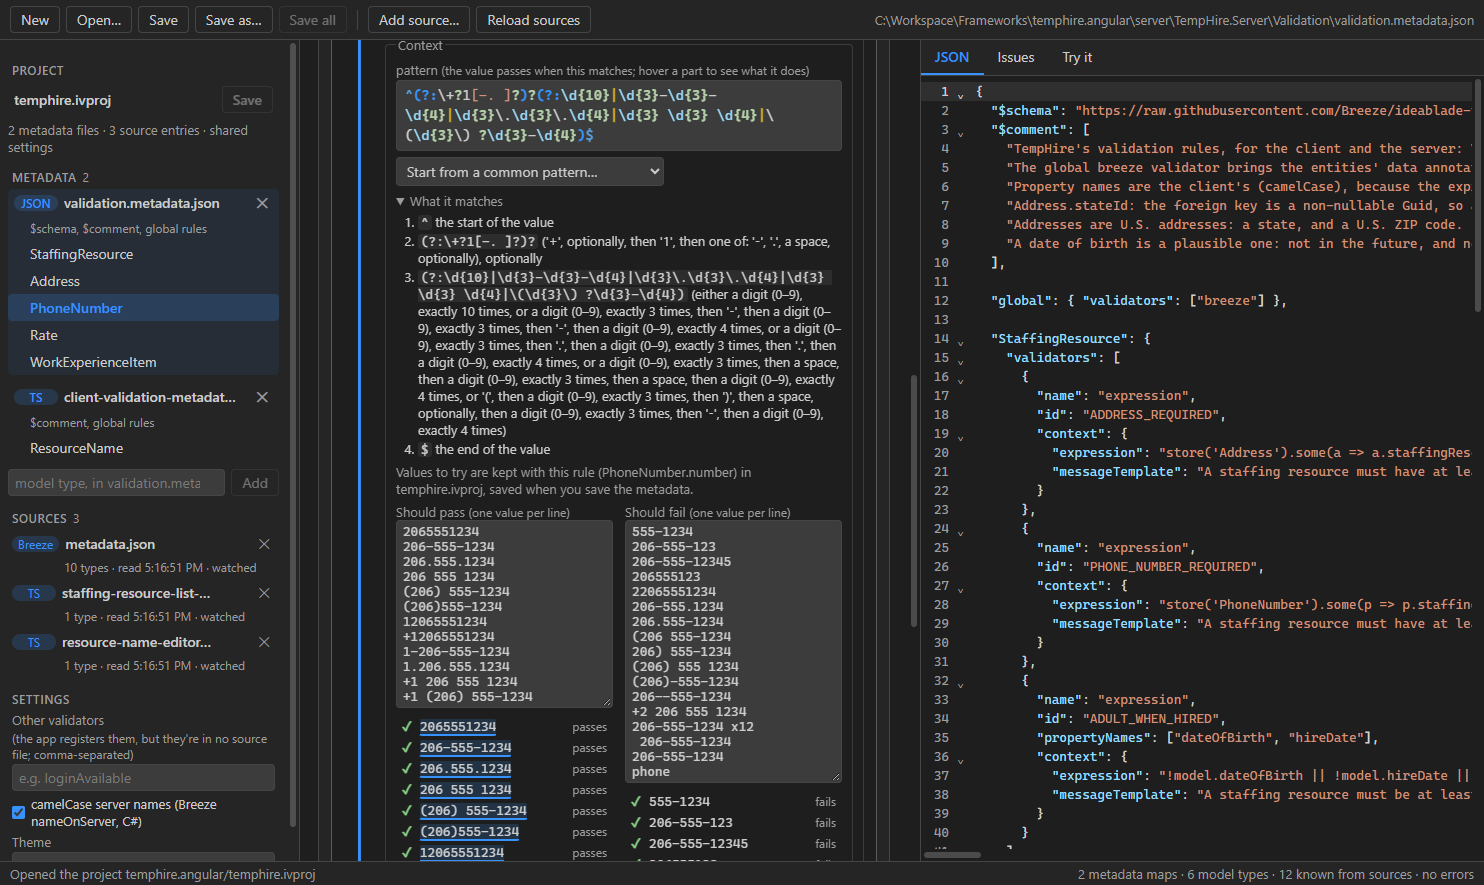
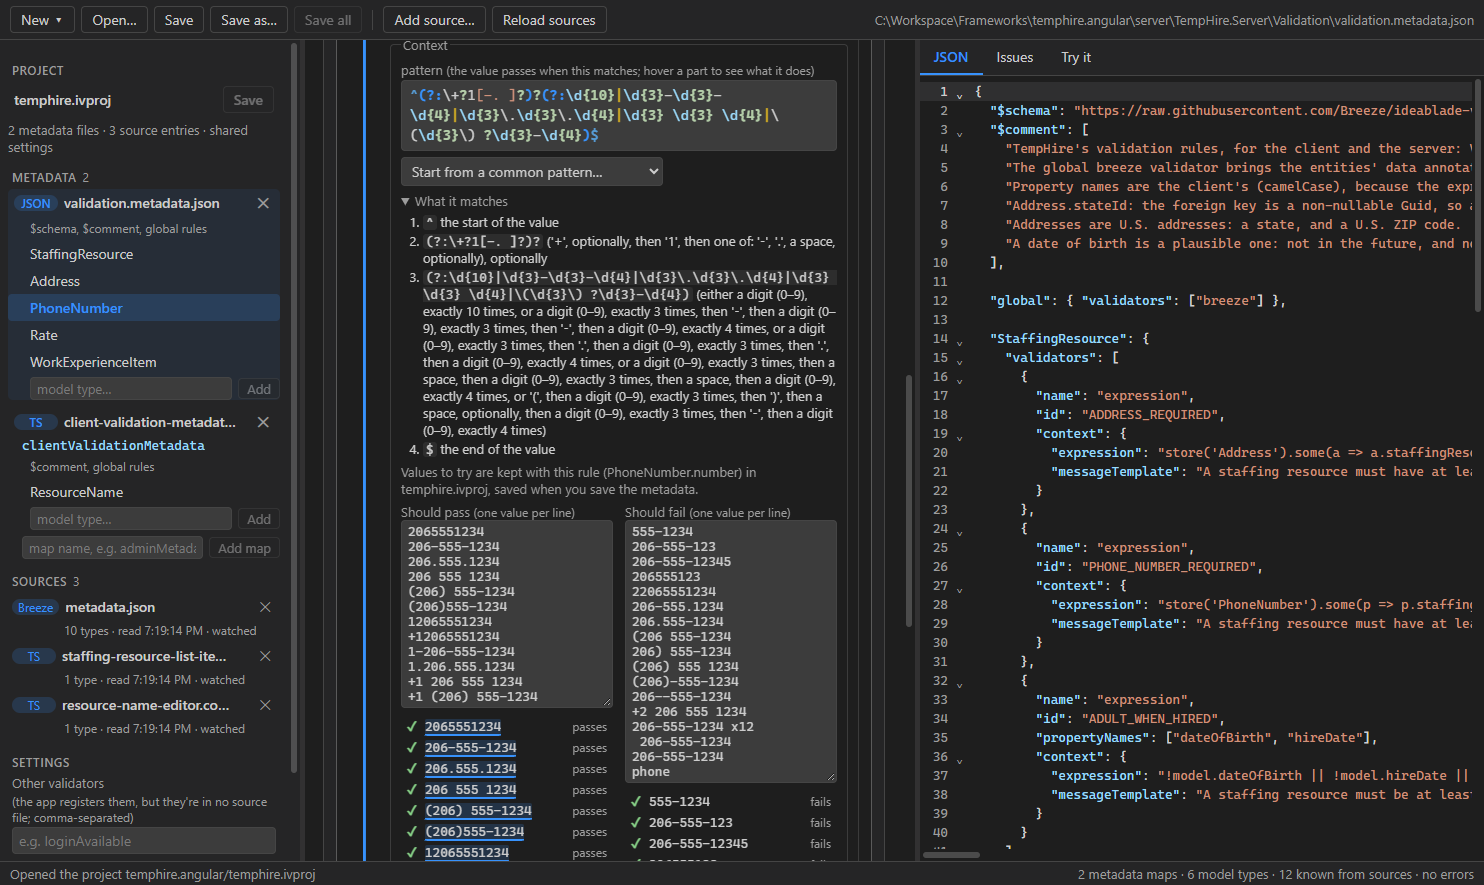
README: a note on how it was made, and current screenshots
A note at the top: written in a few hours with Claude Code, not fully
reviewed and vetted, a developer tool rather than a production app.
All screenshots retaken with the current UI (the sidebar grouped by
file, map names, the TypeScript view), plus a new row: a TS file with a
second map from Add map, the start page with recent projects, and the
New menu.

diff --git a/README.md b/README.md
@@ -2,6 +2,8 @@
 
 A desktop editor for [IdeaBlade Validation](https://github.com/Breeze/ideablade-validation)'s JSON validation metadata (`validation.metadata.json`), so the rules no longer have to be written by hand. It's a first drop: a working prototype, not a finished product.
 
+> **Note:** What you see here was written in a few hours with the help of [Claude Code](https://claude.com/claude-code). The code hasn't been fully reviewed and vetted. It's meant as a developer tool, not a fully fleshed-out production app.
+
 ![Editing a model-level rule](docs/screenshots/model-editor.png)
 
 ## What it does
@@ -80,6 +82,10 @@ A desktop editor for [IdeaBlade Validation](https://github.com/Breeze/ideablade-
 | TempHire's project file, with its pattern's values to try | The JSON view: folding, search, VS Code's colours | A file changed outside the editor |
 |---|---|---|
 | ![](docs/screenshots/project.png) | ![](docs/screenshots/json-editor.png) | ![](docs/screenshots/outside-change.png) |
+
+| A TS file with a second map (Add map), shown as the file | The start page, with the recent projects | New: JSON, TypeScript or C# |
+|---|---|---|
+| ![](docs/screenshots/ts-maps.png) | ![](docs/screenshots/start-page.png) | ![](docs/screenshots/new-menu.png) |
 
 ## Running it
 
